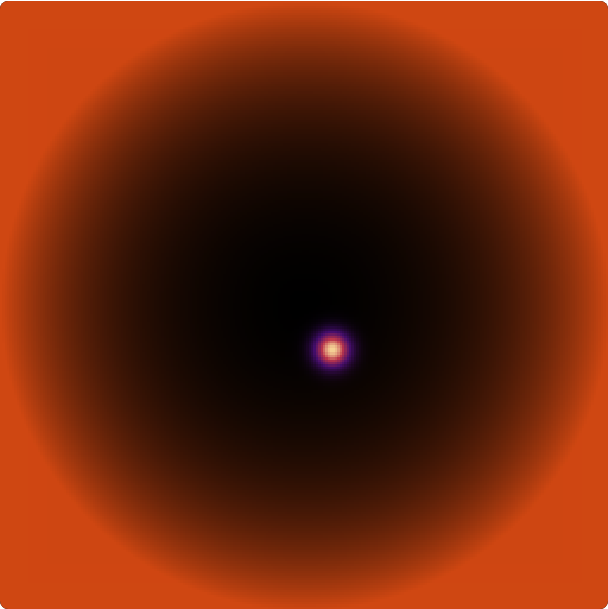
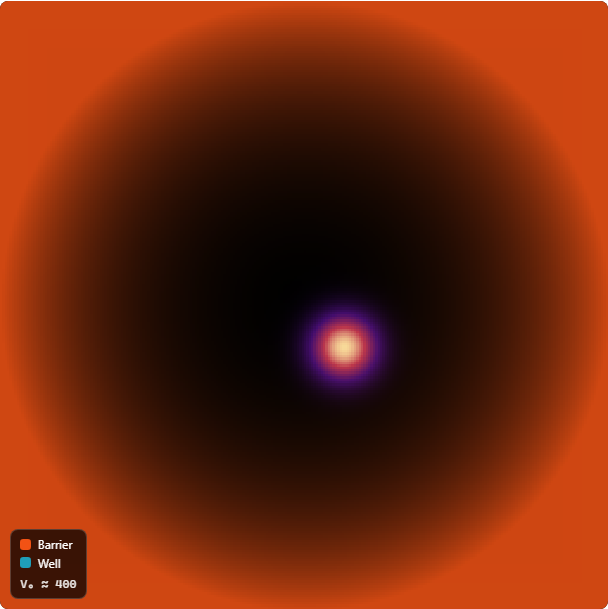
polish(web): default contrast 2.5 everywhere (user ruling); thumbnails re-shot

Changed region(s): [[0.4688, 0.468, 0.6562, 0.6552], [0.0, 0.8424, 0.1562, 0.9984]]

diff --git a/web/tests/phaseColor.test.ts b/web/tests/phaseColor.test.ts
@@ -50,8 +50,9 @@ describe('FRAGMENT_SHADER_SRC phase colormap (structural)', () => {
 
   it('keeps the mode-0 inferno path byte-equivalent in behavior', () => {
     // The auto-exposure tonemap line feeds BOTH modes unchanged. The
-    // exponent is 0.45 scaled by u_contrast (Task 18 round 1) — at the
-    // default 1.0 the arithmetic is the original 0.45 gamma exactly.
+    // exponent is 0.45 scaled by u_contrast (Task 18) — at u_contrast = 1
+    // the arithmetic is the original 0.45 gamma exactly (the pre-ruling M1
+    // look; the app's DEFAULT is 2.5 everywhere, user ruling 2026-10-01).
     expect(FRAGMENT_SHADER_SRC).toContain(
       'float b = pow(clamp(rho / max(u_maxDensity, 1e-6), 0.0, 1.0), 0.45 / u_contrast)',
     )
@@ -132,22 +133,24 @@ describe('SimStore phaseColor flag', () => {
     expect(store.phaseColor).toBe(false)
   })
 
-  it('contrast defaults to the neutral 1, is pure render state, and resets on init', () => {
+  it('contrast defaults to the user-ruling 2.5 everywhere, is pure render state, resets on init', () => {
     const store = new RecordingStore()
-    // 1.0 = the pre-slider look EXACTLY (0.45 / 1 = 0.45 gamma).
-    expect(store.contrast).toBe(1)
+    // USER RULING (2026-10-01): 2.5 in EVERY mode — fringes and the
+    // tunneling blob clearly visible; bright-core saturation accepted.
+    // (1 would be the pre-ruling M1 gamma verbatim: 0.45 / 1 = 0.45.)
+    expect(store.contrast).toBe(2.5)
 
     store.init(PRESETS['free-packet'])
     store.sent.length = 0
-    store.contrast = 2.5
+    store.contrast = 1
     store.contrast = 0.5
     // Pure render state (same contract as phaseColor): no worker message.
     expect(store.sent).toEqual([])
 
     store.destroy()
     store.init(PRESETS['double-slit'])
-    // A fresh scene boots with neutral eyes.
-    expect(store.contrast).toBe(1)
+    // A fresh scene boots at the ruling default again.
+    expect(store.contrast).toBe(2.5)
   })
 
   it('explore flip does not render HSV (spec v1 §2.1): flag survives, predicate gates it', () => {

diff --git a/web/src/sim/simStore.svelte.ts b/web/src/sim/simStore.svelte.ts
@@ -113,15 +113,21 @@ export class SimStore {
    */
   phaseColor = $state(false)
   /**
-   * Display contrast (Task 18 round 1): the render loop feeds it to the
-   * shader's u_contrast, which divides the tonemap gamma (0.45 / contrast).
-   * PURE render state like `phaseColor` — flipping it sends nothing to the
-   * worker. 1 = the M1 look exactly; > 1 lifts dim structure (interference
-   * fringes of the reflected packet) out of the colormap's dark low end;
-   * < 1 crushes it. Advanced-mode slider only; `init` resets it — a fresh
-   * scene starts with neutral eyes.
+   * Display contrast (Task 18): the render loop feeds it to the shader's
+   * u_contrast, which divides the tonemap gamma (0.45 / contrast). PURE
+   * render state like `phaseColor` — flipping it sends nothing to the
+   * worker. APPLIED EVERYWHERE (both experience modes, momentum view,
+   * measurement crossfades — the loop passes it per drawn frame); the
+   * SLIDER is advanced-only (explore stays minimal, spec §2.1), but the
+   * value it edits is the same global default.
+   *
+   * USER RULING (2026-10-01): the default is 2.5 in every mode — at that
+   * level the interference fringes and the tunneling transmitted blob are
+   * clearly visible; the extra bright-core saturation is accepted. (1 is
+   * the shader-uniform neutral = the old M1 look verbatim; < 1 crushes
+   * dim structure.) `init` resets to the same 2.5.
    */
-  contrast = $state(1)
+  contrast = $state(2.5)
   /** Set by a worker `fatal`; cleared by the next `init`. */
   fatal = $state<string | undefined>(undefined)
   /**
@@ -250,7 +256,7 @@ export class SimStore {
     this.frames = 0
     this.view = 'position'
     this.phaseColor = false
-    this.contrast = 1
+    this.contrast = 2.5
     this.observablesHistory = []
     // Parked T8 finding: without this, a preset switch inherits the previous
     // scene's HUD numbers until the next frame overwrites them (and under

diff --git a/web/src/render/shaders.ts b/web/src/render/shaders.ts
@@ -59,12 +59,14 @@ uniform sampler2D u_potential;
 uniform float u_potentialMax;
 // Smoothed peak |psi|^2 of the current frame — the auto-exposure reference.
 uniform float u_maxDensity;
-// Contrast (Task 18 round 1): divides the tonemap exponent's gamma — 1.0 is
-// the M1 look verbatim; > 1 lowers the gamma and lifts dim structure (the
+// Contrast (Task 18): divides the tonemap exponent's gamma — 1.0 is the old
+// M1 look verbatim; > 1 lowers the gamma and lifts dim structure (the
 // interference fringes of a reflected packet against the auto-exposure
-// peak), < 1 crushes it. Applied to the shared brightness b, so the inferno
-// ramp AND the HSV phase path's VALUE both follow — position and momentum
-// views alike.
+// peak), < 1 crushes it. The app's DEFAULT is 2.5 in every mode (user
+// ruling 2026-10-01: fringe/tunneling visibility; bright-core saturation
+// accepted). Applied to the shared brightness b, so the inferno ramp AND
+// the HSV phase path's VALUE both follow — position and momentum views
+// alike.
 uniform float u_contrast;
 // Grid size (nx, ny) in texels — the step for potential neighbor sampling.
 uniform vec2 u_gridSize;

diff --git a/web/src/ui/ViewToggle.svelte b/web/src/ui/ViewToggle.svelte
@@ -26,11 +26,12 @@
    * (Task 18) shows the tooltip; the position button and the measurement
    * trigger stay plain.
    *
-   * Below the group sits the contrast slider (Task 18 round 1): pure render
-   * state (`simStore.contrast`, no worker message) driving the shader's
-   * u_contrast — 1 is the default look, higher lifts the dim interference
-   * fringes out of the colormap's dark low end. Advanced-only by mount
-   * (App gates this whole component).
+   * Below the group sits the contrast slider (Task 18): pure render state
+   * (`simStore.contrast`, no worker message) driving the shader's
+   * u_contrast. The DEFAULT is 2.5 everywhere (user ruling 2026-10-01 —
+   * fringes and the tunneling blob clearly visible; bright-core saturation
+   * accepted); the slider is advanced-only by mount (App gates this whole
+   * component) but edits the same global value every mode renders with.
    */
 
   // Local mirror of the language store (same pattern as App.svelte): the

diff --git a/web/src/render/renderer.ts b/web/src/render/renderer.ts
@@ -53,10 +53,13 @@ export class HeatmapRenderer {
    */
   private colorMode: 0 | 1 = 0
   /**
-   * Display contrast (u_contrast, Task 18 round 1): 1 = the M1 tonemap
-   * verbatim; > 1 lifts dim structure. Kept as a field for the same reason
-   * as `colorMode`: a context-loss rebuild() re-applies the current value
-   * instead of flashing back to neutral, and draw() re-asserts it so the
+   * Display contrast (u_contrast, Task 18). The field default 1 is the
+   * UNIFORM NEUTRAL (the pre-ruling M1 gamma), not the product default —
+   * the store boots at the user-ruling 2.5 and the render loop calls
+   * setContrast before the first draw, so this only matters between
+   * construction and the first frame (nothing draws there). Kept as a
+   * field for the same reason as `colorMode`: a context-loss rebuild()
+   * re-applies the last SET value, and draw() re-asserts it so the
    * fade-between-frames path follows live changes too.
    */
   private contrast = 1

diff --git a/web/src/i18n/vi.ts b/web/src/i18n/vi.ts
@@ -64,9 +64,10 @@ export const vi: Record<string, string> = {
   'view.momentumCaption': 'Không gian động lượng kx, ky — k = 0 ở giữa',
   'view.toggleLabel': 'Không gian hiển thị',
   'view.phaseColor': 'Màu pha',
-  // Contrast slider (Task 18 round 1, advanced mode only): scales the
-  // canvas tonemap's gamma — 1 is the default look, higher lifts dim
-  // structure (interference fringes) out of the colormap's dark low end.
+  // Contrast slider (Task 18, advanced mode only): scales the canvas
+  // tonemap's gamma. Default 2.5 EVERYWHERE (user ruling 2026-10-01 —
+  // fringes/tunneling blob clearly visible); the slider edits that global
+  // value, lower crushes dim structure.
   'view.contrast': 'Tương phản',
   // Header toggle hint; '{mode}' is replaced with the target mode's name.
   'mode.switchHint': 'Chuyển sang {mode}',

diff --git a/web/src/i18n/en.ts b/web/src/i18n/en.ts
@@ -64,9 +64,10 @@ export const en: Record<string, string> = {
   'view.momentumCaption': 'Momentum space kx, ky — k = 0 at the center',
   'view.toggleLabel': 'Display space',
   'view.phaseColor': 'Phase color',
-  // Contrast slider (Task 18 round 1, advanced mode only): scales the
-  // canvas tonemap's gamma — 1 is the default look, higher lifts dim
-  // structure (interference fringes) out of the colormap's dark low end.
+  // Contrast slider (Task 18, advanced mode only): scales the canvas
+  // tonemap's gamma. Default 2.5 EVERYWHERE (user ruling 2026-10-01 —
+  // fringes/tunneling blob clearly visible); the slider edits that global
+  // value, lower crushes dim structure.
   'view.contrast': 'Contrast',
   // Header toggle hint; '{mode}' is replaced with the target mode's name.
   'mode.switchHint': 'Switch to {mode}',
